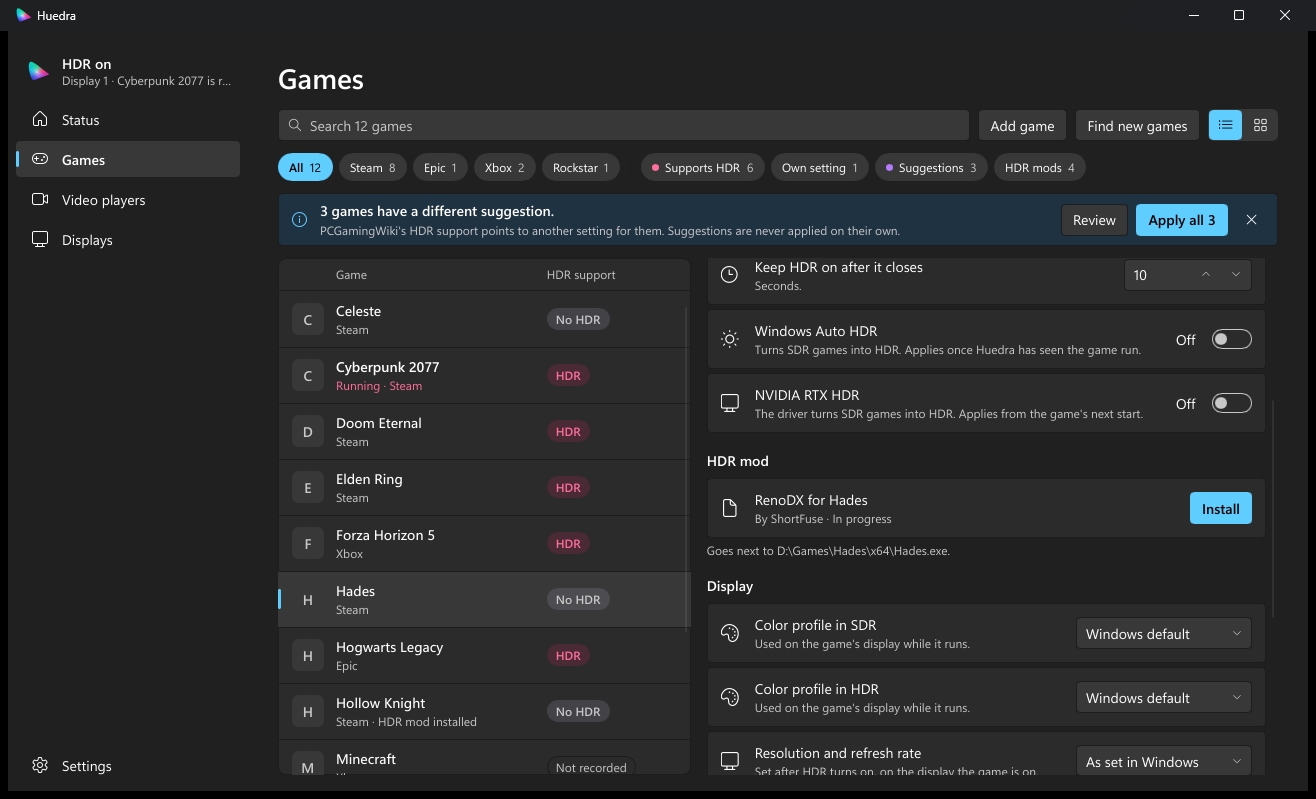
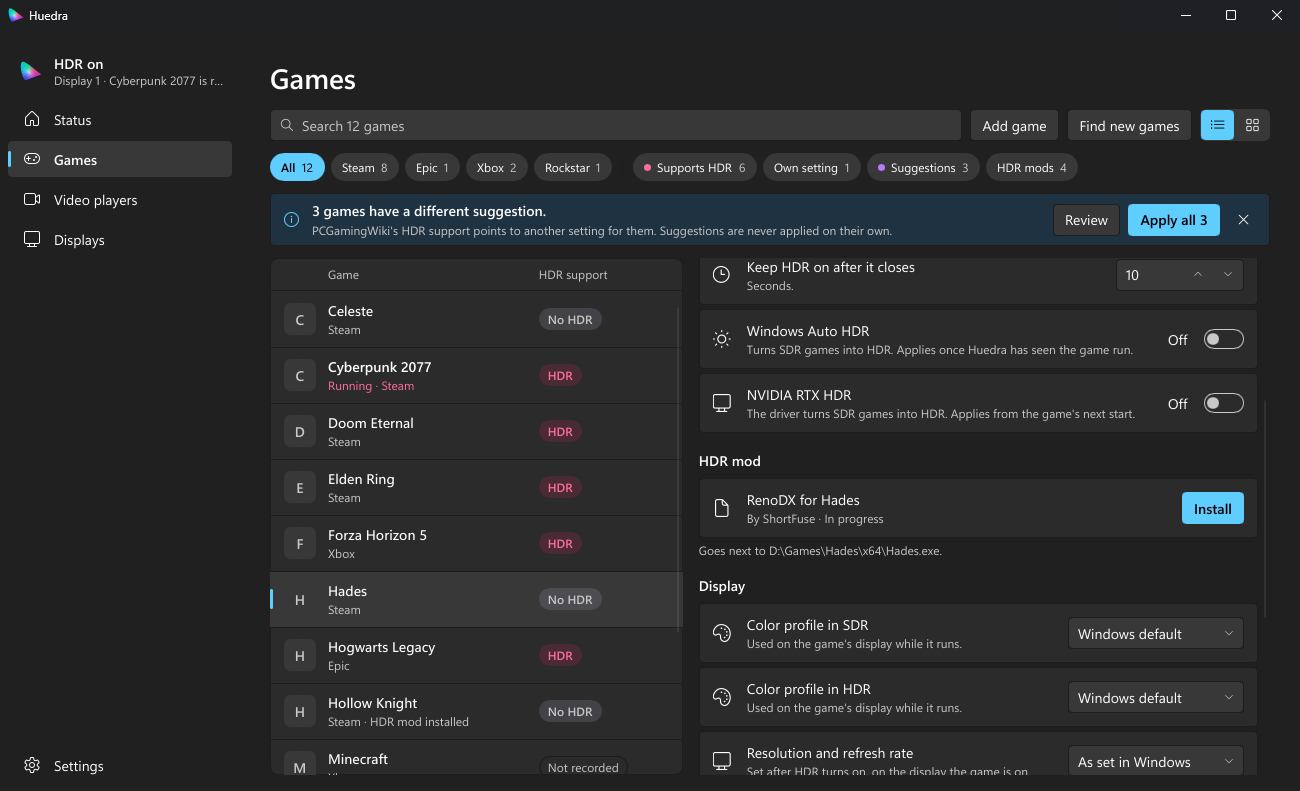
docs: record the 1.3.0 release; README images without the black window frame (#53)

diff --git a/docs/features/12-packaging.md b/docs/features/12-packaging.md
@@ -233,3 +233,10 @@ Not verified: installing through winget (local manifests need an administrator s
 ## Result (2026-11-16) — size limit 15 MB
 - Raised by the owner from 12 MB to 15 MB (15,000,000 bytes) in `build/ci.sh`: the redesigned Games details pane, its dialogs and the new Settings group brought the exe to 12,361,216 bytes. Slint expands each conditional element into its own code (about 4 KB each); making two always present in the setting rows saved 128 KB.
 - `huedra uninstall` now also removes the HDR mods Huedra installed (16) and puts back the Auto HDR and RTX HDR values recorded in `graphics.toml` (04). `PRIVACY.md` names the third use of the internet (the mod lists and mod downloads). Verified with a test build (12,412,416 bytes, Defender clean); the owner's start-up entry was exported first and imported again afterward.
+
+## Result (2026-11-16) — 1.3.0
+- PR #51 (HDR mods, Auto HDR and RTX HDR per game, the Windows-native look, removing mods installed by hand, the 1.3.0 changelog) merged as 512e4ae with a plain squash merge. The first Release run (43892674871) stopped at `cargo doc -D warnings` (a public doc linked a private function) before anything was published, but its first job had already tagged `v1.3.0` on 512e4ae; PR #52 fixed the link (ed5b7f5), the unused tag was deleted, and Release > Run workflow (version 1.3.0) ran again on ed5b7f5, run 43894520794: every job green; "Huedra 1.3.0" marked Latest, not a pre-release, with `huedra-1.3.0-windows-x64.zip` (6,429,738 bytes), its signature and the extension 0.3.1 zip; the update channel's `huedra.exe` is 12,443,648 bytes (limit 15,000,000).
+- Verified on this PC from the downloads: the zip, `release.toml` and `release-notes.md` signatures verify (trusted comment "huedra 1.3.0"); the exe's size and SHA-256 match `release.toml`, and the zip's exe is the channel's; `--version` prints Huedra 1.3.0; the notes carry the 1.3.0 entries; Defender finds nothing in the exe.
+- The winget and Scoop manifests in `extras/packaging/` now name 1.3.0 and the zip's SHA-256 (b55402e3ace2a70e7f0a4745b5f14aacef4465ef240330b9f7b2b6ea59b1b403).
+- A failed run can leave its tag behind: the version job tags before the build. Delete an unused tag before running Release again for the same version.
+- README images: the tour's Settings frame retaken from the sample build with version 1.3.0; the tour GIF (now 820 × 561, 337 frames) and the Games screenshot (1300 × 791) lose the 8-pixel black band on the left, right and bottom that `PrintWindow` captures from Windows' invisible resize frame.

diff --git a/extras/packaging/README.md b/extras/packaging/README.md
@@ -5,7 +5,7 @@ published from here: each needs a submission by the owner.
 
 ## winget
 
-`winget/manifests/a/apixelsnet/Huedra/1.2.1/` is a copy of what a pull request to
+`winget/manifests/a/apixelsnet/Huedra/1.3.0/` is a copy of what a pull request to
 [microsoft/winget-pkgs](https://github.com/microsoft/winget-pkgs) adds, at the
 same path. The installer is the release zip with `huedra.exe` inside, installed
 as a portable program with the command `huedra`.
